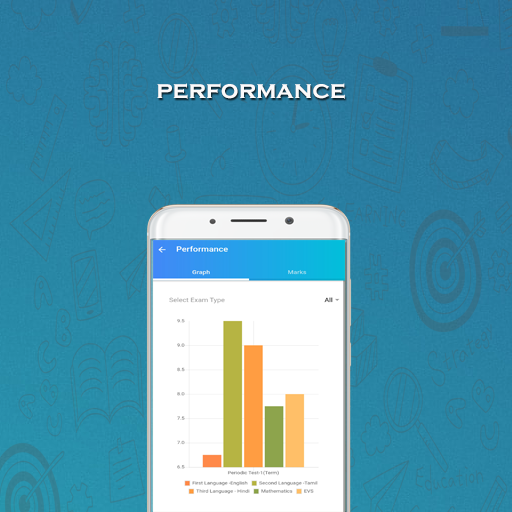
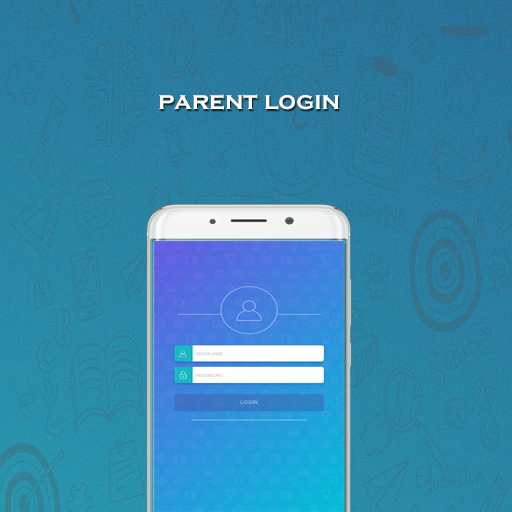
platosweb completed

Changed region(s): [[0.2812, 0.4688, 0.6875, 1.0], [0.3125, 0.1562, 0.6875, 0.2188]]

diff --git a/unipix-html-full-pkg-v1.0.2/unipix-html/campus.html b/unipix-html-full-pkg-v1.0.2/unipix-html/campus.html
@@ -1126,10 +1126,7 @@
                 <div class="single-item">
                   <div class="single-item__content">
                     <div class="single-item__image">
-                      <img
-                        src="assets/images/stulifeimg1.JPG"
-                        alt="item-image"
-                      />
+                      <img src="assets/cctvcamera.jpg" alt="item-image" />
                     </div>
                     <div class="single-item__meta">
                       <h5 class="item-title"><a href="#">CCTV</a></h5>
@@ -1147,7 +1144,7 @@
                   <div class="single-item__content">
                     <div class="single-item__image">
                       <img
-                        src="assets/images/stulifeimg2.jpeg"
+                        src="assets/campusfrontgateimg.jpg"
                         alt="item-image"
                       />
                     </div>
@@ -1169,7 +1166,7 @@
                   <div class="single-item__content">
                     <div class="single-item__image">
                       <img
-                        src="assets/images/stulifeimg3.JPG"
+                        src="assets/vigilantmentorsimg.jpg"
                         alt="item-image"
                       />
                     </div>
@@ -1190,10 +1187,7 @@
                 <div class="single-item">
                   <div class="single-item__content">
                     <div class="single-item__image">
-                      <img
-                        src="assets/images/stulifeimg3.JPG"
-                        alt="item-image"
-                      />
+                      <img src="assets/counsellingimg.jpg" alt="item-image" />
                     </div>
                     <div class="single-item__meta">
                       <h5 class="item-title">
@@ -1212,7 +1206,7 @@
                   <div class="single-item__content">
                     <div class="single-item__image">
                       <img
-                        src="assets/images/stulifeimg3.JPG"
+                        src="assets/medical attention.jpg"
                         alt="item-image"
                       />
                     </div>
@@ -1266,10 +1260,7 @@
                 <div class="single-item">
                   <div class="single-item__content">
                     <div class="single-item__image">
-                      <img
-                        src="assets/images/stulifeimg1.JPG"
-                        alt="item-image"
-                      />
+                      <img src="assets/campustransport.jpg" alt="item-image" />
                     </div>
                     <div class="single-item__meta">
                       <h5 class="item-title">
@@ -1289,7 +1280,7 @@
                   <div class="single-item__content">
                     <div class="single-item__image">
                       <img
-                        src="assets/images/stulifeimg2.jpeg"
+                        src="assets/camerainsertedbus.jpg"
                         alt="item-image"
                       />
                     </div>
@@ -1310,10 +1301,7 @@
                 <div class="single-item">
                   <div class="single-item__content">
                     <div class="single-item__image">
-                      <img
-                        src="assets/images/stulifeimg3.JPG"
-                        alt="item-image"
-                      />
+                      <img src="assets/driverimg.jpg" alt="item-image" />
                     </div>
                     <div class="single-item__meta">
                       <h5 class="item-title">
@@ -1332,10 +1320,7 @@
                 <div class="single-item">
                   <div class="single-item__content">
                     <div class="single-item__image">
-                      <img
-                        src="assets/images/stulifeimg3.JPG"
-                        alt="item-image"
-                      />
+                      <img src="assets/inaroundimg.jpg" alt="item-image" />
                     </div>
                     <div class="single-item__meta">
                       <h5 class="item-title">
@@ -1353,17 +1338,15 @@
                 <div class="single-item">
                   <div class="single-item__content">
                     <div class="single-item__image">
-                      <img
-                        src="assets/images/stulifeimg3.JPG"
-                        alt="item-image"
-                      />
+                      <img src="assets/individualimg.jpg" alt="item-image" />
                     </div>
                     <div class="single-item__meta">
                       <h5 class="item-title">
                         <a href="#">Individual Pickup Point</a>
                       </h5>
                       <p class="item-description">
-                       Designated custom pickup spots are arranged to ensure smooth and timely commutes.
+                        Designated custom pickup spots are arranged to ensure
+                        smooth and timely commutes.
                       </p>
                     </div>
                   </div>
@@ -1391,12 +1374,12 @@
       </div>
       <div class="rotating-cards-section">
         <div class="cards-container" id="cardsContainer">
-          <div class="card active" data-index="0">
+          <div class="card active" data-index="0" style="background-color: red">
             <div class="card-icon">🏛</div>
             <h3>Aristotle House</h3>
             <p>
-              Aristotle House symbolizes courage, passion and determination.
-              The color red represents the fire within, igniting ambition and
+              Aristotle House symbolizes courage, passion and determination. The
+              color red represents the fire within, igniting ambition and
               inspiring action. Known for its fearless spirit, the Red House
               never backs down in the face of challenges. With unwavering
               commitment and boundless energy, they set high standards in every
@@ -1404,7 +1387,7 @@
               force in both academics and sports.
             </p>
           </div>
-          <div class="card" data-index="1">
+          <div class="card" data-index="1" style="background-color: rgb(222, 212, 16)">
             <div class="card-icon">🏛</div>
             <h3>Darwin House</h3>
             <p>
@@ -1416,7 +1399,7 @@
               pillar of inspiration across the school.
             </p>
           </div>
-          <div class="card" data-index="2">
+          <div class="card" data-index="2" style="background-color: green">
             <div class="card-icon">🏛</div>
             <h3>Einstein House</h3>
             <p>
@@ -1429,12 +1412,12 @@
               a love for learning.
             </p>
           </div>
-          <div class="card" data-index="3">
+          <div class="card" data-index="3" style="background-color: blue">
             <div class="card-icon">🏛</div>
             <h3>Newton House</h3>
             <p>
-              Newton House embodies peace, stability and perseverance. The
-              color blue signifies depth and wisdom, symbolizing calmness under
+              Newton House embodies peace, stability and perseverance. The color
+              blue signifies depth and wisdom, symbolizing calmness under
               pressure and strength in adversity. Renowned for their focus and
               discipline, the Blue House remains steadfast in all pursuits.
               Their silent determination and thoughtful strategies make them

diff --git a/unipix-html-full-pkg-v1.0.2/unipix-html/academics.html b/unipix-html-full-pkg-v1.0.2/unipix-html/academics.html
@@ -680,7 +680,7 @@ box-shadow: 0 4px 10px rgba(0, 0, 0, 0.08);
       </div>
       <div class="row"  data-aos="fade-up">
         <div class="col-md-1"></div>
-        <div class="col-md-10">
+        <div class="col-md-12">
           <div class="academic-picture">
             <img src="assets/scl15.JPG" alt="academic">
           </div>
@@ -1178,7 +1178,7 @@ box-shadow: 0 4px 10px rgba(0, 0, 0, 0.08);
     <div class="col-6 col-sm-4 col-md-3 lg-4 color-card" style="background-color: #043a85 ;">
   <img src="assets/pushpin_9522486.png" alt="pin" class="pin-image" />
   <div class="color-box">
-    <img class="color-swatch" src="assets/gal27.jpg" alt="Club Image" style="height: 230px; border-radius: 8px 8px 0 0;" />
+    <img class="color-swatch" src="assets/englishglubimg.jpeg" alt="Club Image" style="height: 230px; border-radius: 8px 8px 0 0;" />
     <div class="club-description p-2 mt--10">
       <h6>Grammarian Galaxy Club</h6>
      <p>
@@ -1196,7 +1196,7 @@ box-shadow: 0 4px 10px rgba(0, 0, 0, 0.08);
       <div class="col-6 col-sm-4 col-md-3 lg-4 color-card" style="background-color: #0f56ba ;">
   <img src="assets/pushpin_9522486.png" alt="pin" class="pin-image" />
   <div class="color-box">
-    <img class="color-swatch" src="assets/gal27.jpg" alt="Club Image" style="height: 230px; border-radius: 8px 8px 0 0;" />
+    <img class="color-swatch" src="assets/scienceglubimg.jpeg" alt="Club Image" style="height: 230px; border-radius: 8px 8px 0 0;" />
     <div class="club-description p-2 mt--10">
       <h6>Earth Beat Club</h6>
      <p>
@@ -1212,7 +1212,7 @@ box-shadow: 0 4px 10px rgba(0, 0, 0, 0.08);
     <div class="col-6 col-sm-4 col-md-3 lg-4 color-card" style="background-color: rgb(10, 128, 212) ;">
   <img src="assets/pushpin_9522486.png" alt="pin" class="pin-image" />
   <div class="color-box">
-    <img class="color-swatch" src="assets/gal27.jpg" alt="Club Image" style="height: 230px; border-radius: 8px 8px 0 0;" />
+    <img class="color-swatch" src="assets/tamilmandramimg.jpeg" alt="Club Image" style="height: 230px; border-radius: 8px 8px 0 0;" />
     <div class="club-description p-2 mt--10">
       <h6>Bharathi Tamil Saral Mandram
       </h6>
@@ -1231,7 +1231,7 @@ box-shadow: 0 4px 10px rgba(0, 0, 0, 0.08);
 <div class="col-6 col-sm-4 col-md-3 lg-4 color-card" style="background-color: rgb(83, 141, 213) ">
   <img src="assets/pushpin_9522486.png" alt="pin" class="pin-image" />
   <div class="color-box">
-    <img class="color-swatch" src="assets/gal27.jpg" alt="Club Image" style="height: 230px; border-radius: 8px 8px 0 0;" />
+    <img class="color-swatch" src="assets/mathsclubimg.jpeg" alt="Club Image" style="height: 230px; border-radius: 8px 8px 0 0;" />
     <div class="club-description p-2 mt--10">
       <h6>Infinity Math Club
       </h6>
@@ -1251,7 +1251,7 @@ box-shadow: 0 4px 10px rgba(0, 0, 0, 0.08);
       <div class="col-6 col-sm-4 col-md-3 color-card" style="background-color: #043a85 ;">
   <img src="assets/pushpin_9522486.png" alt="pin" class="pin-image" />
   <div class="color-box">
-    <img class="color-swatch" src="assets/gal27.jpg" alt="Club Image" style="height: 230px; border-radius: 8px 8px 0 0;" />
+    <img class="color-swatch" src="assets/hindhiclub.jpeg" alt="Club Image" style="height: 230px; border-radius: 8px 8px 0 0;" />
     <div class="club-description p-2 mt--10">
       <h6>Gyan Ganga – Hindi Club</h6>
      <p>
@@ -1267,7 +1267,7 @@ box-shadow: 0 4px 10px rgba(0, 0, 0, 0.08);
 <div class="col-6 col-sm-4 col-md-3 color-card" style="background-color: #0f56ba ;">
   <img src="assets/pushpin_9522486.png" alt="pin" class="pin-image" />
   <div class="color-box">
-    <img class="color-swatch" src="assets/gal27.jpg" alt="Club Image" style="height: 230px; border-radius: 8px 8px 0 0;" />
+    <img class="color-swatch" src="assets/socialscienceclub.jpeg" alt="Club Image" style="height: 230px; border-radius: 8px 8px 0 0;" />
     <div class="club-description p-2 mt--10">
       <h6>Civic Circle Club</h6>
      <p>
@@ -1284,7 +1284,7 @@ box-shadow: 0 4px 10px rgba(0, 0, 0, 0.08);
 <div class="col-6 col-sm-4 col-md-3 color-card" style="background-color: rgb(10, 128, 212);">
   <img src="assets/pushpin_9522486.png" alt="pin" class="pin-image" />
   <div class="color-box">
-    <img class="color-swatch" src="assets/gal27.jpg" alt="Club Image" style="height: 230px; border-radius: 8px 8px 0 0;" />
+    <img class="color-swatch" src="assets/GKclub.jpeg" alt="Club Image" style="height: 230px; border-radius: 8px 8px 0 0;" />
     <div class="club-description p-2 mt--10">
       <h6>Platonius Fabulinus – GK Club</h6>
      <p>
@@ -1298,7 +1298,7 @@ box-shadow: 0 4px 10px rgba(0, 0, 0, 0.08);
 <div class="col-6 col-sm-4 col-md-3 color-card" style="background-color: rgb(83, 141, 213) ;">
   <img src="assets/pushpin_9522486.png" alt="pin" class="pin-image" />
   <div class="color-box">
-    <img class="color-swatch" src="assets/gal27.jpg" alt="Club Image" style="height: 230px; border-radius: 8px 8px 0 0;" />
+    <img class="color-swatch" src="assets/arts.jpg" alt="Club Image" style="height: 230px; border-radius: 8px 8px 0 0;" />
      <div class="club-description p-2 mt--10">
       <h6>Artemistierre’s Club – Art Club</h6>
      <p>

diff --git a/unipix-html-full-pkg-v1.0.2/unipix-html/achievements.html b/unipix-html-full-pkg-v1.0.2/unipix-html/achievements.html
@@ -589,12 +589,17 @@
             </div>
           </div>
           <div class="swiper-slide achievement-slide">
-            <img src="assets/scl11.JPG" alt="Cultural Achievement" />
+            <img
+              src="assets/cricketbigimg (1).jpg"
+              alt="Cultural Achievement"
+            />
             <div class="achievement-caption">
-              <h3 class="achievement-title">Silver in Khelo India 2025</h3>
+              <h3 class="achievement-title">
+                Cricketing Excellence Through TSC Collaboration
+              </h3>
               <p class="achievement-desc">
-                Tanisska Senthilkumar clinched Silver in Rifle shooting in Khelo
-                India 2025.
+                In tie-up with TSC, Plato's dominates the Cricket field with
+                many state and national level players.
               </p>
             </div>
           </div>
@@ -1061,10 +1066,7 @@
                 <div class="single-item">
                   <div class="single-item__content">
                     <div class="single-item__image">
-                      <img
-                        src="assets/images/stulifeimg3.JPG"
-                        alt="item-image"
-                      />
+                      <img src="assets/tenniswinner.jpg" alt="item-image" />
                     </div>
                     <div class="single-item__meta">
                       <h5 class="item-title">
